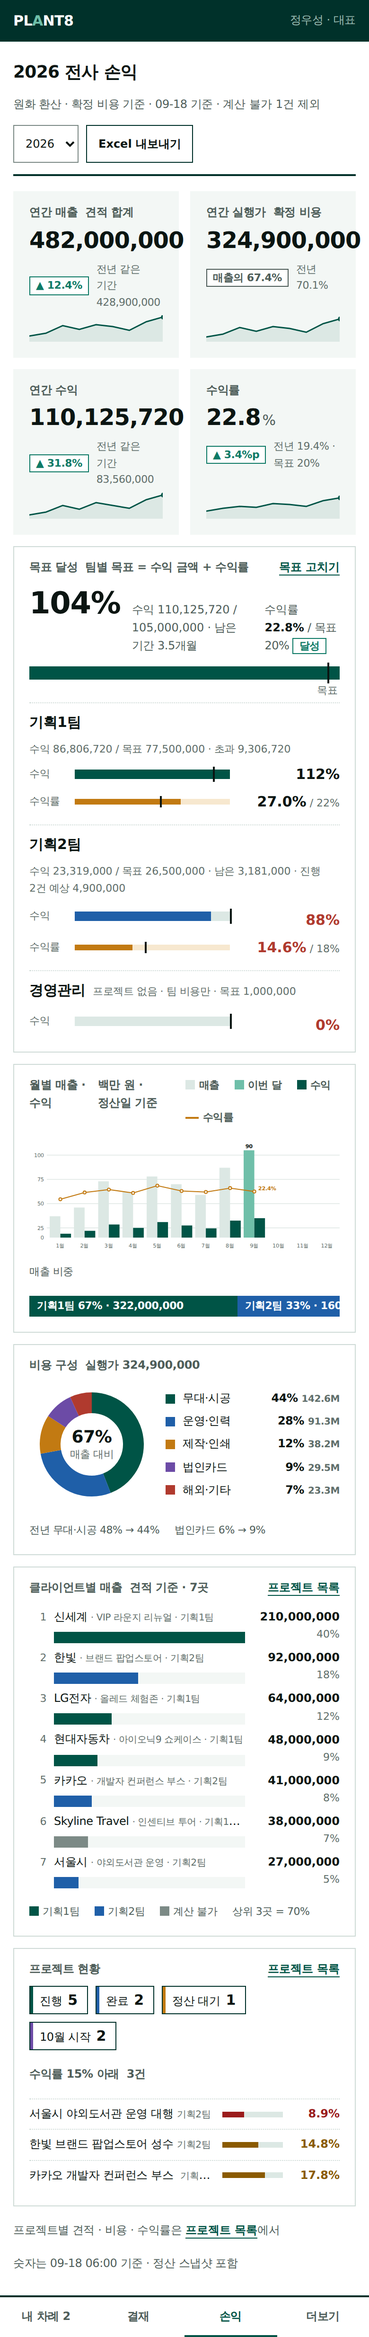
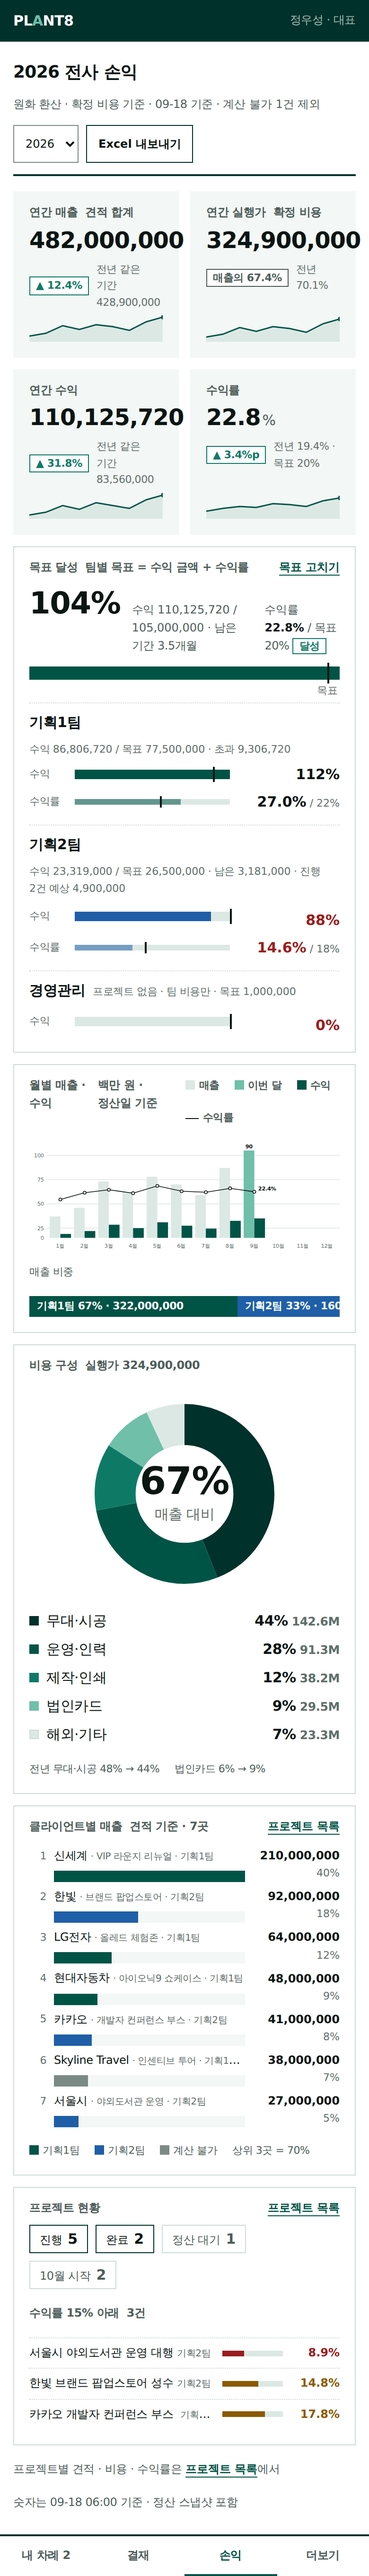
docs: 전사 대시보드 색 정리 — 팀 색 2 + 상태색 2, 도넛은 초록 단계로 키움
사용자 피드백(2026-09-18): 색 배치가 정신없고 도넛이 카드에 비해 작다.
색 하나 = 뜻 하나: 팀 색(그린·파랑)과 경고·위험만 남기고 주황 선·
보라·적갈 칩 제거. 도넛은 220px, 구성 비율은 그린 5단(--seg-1~5).

Claude-Session: https://claude.ai/code/session_01MwoSZSUG1tWADvG16RK3Ss

diff --git a/docs/design/system/dashboard-ceo.html b/docs/design/system/dashboard-ceo.html
@@ -11,12 +11,13 @@
    목표 달성 막대(전사 + 팀별, 목표 눈금) · 월별 매출·수익 막대 + 수익률 선 · 팀별 매출 비중 띠 ·
    클라이언트별 매출 순위(팀 색) · 비용 구성 도넛(추천) · 프로젝트 현황(상태 칩 + 수익률 낮은 프로젝트).
    2026-09-18 사용자: 「다가오는 지급」 「챙길 것」 제외, 클라이언트별 매출 순위 추가, 색 더 다양하게(→ --viz-* 제안).
-   토큰만 쓴다. 제안 토큰: --fs-2xl(32px) · --viz-1~6(데이터 색) — 승인 전이라 이 파일 안에서만 정의.
+   토큰만 쓴다. 제안 토큰: --fs-2xl(32px) · --viz-1/2(팀 색) · --seg-1~5(구성 비율, 그린 단계) — 승인 전이라 이 파일 안에서만 정의.
    장면: #ceo(기본) · #mgmt(경영관리 — 같은 화면, 계급 이름만). 앱 코드가 아니다. */
 :root{--fs-2xl:32px;
-  /* 제안 토큰(승인 전): 데이터 색 6단 — 그린을 1번으로, 나머지는 같은 명도대의 다른 색상. 흰 글자 대비 1·2·4·5 ≥ 4.5, 3·6은 짙은 글자 */
-  --viz-1:var(--g-700);--viz-2:#1F5FA8;--viz-3:#C27A12;--viz-4:#6C4BA6;--viz-5:#B03A2E;--viz-6:var(--g-400);
-  --viz-1-weak:var(--g-100);--viz-2-weak:#DCE7F5;--viz-3-weak:#F7E8CF}
+  /* 제안 토큰(승인 전): 색 하나 = 뜻 하나. 팀 색 2개(기획1팀 = 그린, 기획2팀 = 파랑) + 상태색(--warning·--danger)만.
+     구성 비율(도넛)은 그린 단계 5단. 그 밖의 장식색 없음 */
+  --viz-1:var(--g-700);--viz-2:#1F5FA8;--viz-2-weak:#DCE7F5;
+  --seg-1:var(--g-900);--seg-2:var(--g-700);--seg-3:var(--g-600);--seg-4:var(--g-400);--seg-5:var(--g-100)}
 *{box-sizing:border-box;margin:0;padding:0}
 html{font-size:var(--fs-base)}
 body{background:var(--bg);color:var(--fg);font-family:var(--font-sans);font-size:var(--fs-base);line-height:var(--lh-body);letter-spacing:var(--ls-body);word-break:keep-all;overflow-wrap:anywhere;-webkit-font-smoothing:antialiased}
@@ -86,14 +87,14 @@ main{padding:var(--s-5) var(--pad-page) 72px;max-width:var(--container-max)}
 .teams .r small{font-size:var(--fs-xs);color:var(--faint)}
 .teams .r .track{margin:0;height:10px}
 .teams .r .track i{top:-3px;bottom:-3px}
-.teams .r.rate .track{height:6px;background:var(--viz-3-weak)}
-.teams .r.rate .track b{background:var(--viz-3)}
+.teams .r.rate .track{height:6px}
+.teams .r.rate .track b{opacity:.55}
 .teams .pct{text-align:right;font-weight:var(--fw-bold);white-space:nowrap}
 .teams .pct small{font-weight:var(--fw-regular);color:var(--faint);font-size:var(--fs-xs)}
-.teams .pct.low,.teams .pct.miss{color:var(--viz-5)}
-.teams li.t1 .r:not(.rate) .track b{background:var(--viz-1)}
-.teams li.t2 .r:not(.rate) .track b{background:var(--viz-2)}
-.teams li.t3 .r:not(.rate) .track b{background:var(--viz-4)}
+.teams .pct.low,.teams .pct.miss{color:var(--danger)}
+.teams li.t1 .track b{background:var(--viz-1)}
+.teams li.t2 .track b{background:var(--viz-2)}
+.teams li.t3 .track b{background:var(--line-ui)}
 
 /* 월별 차트 */
 .chart{width:100%;height:auto;display:block;margin-top:var(--s-2)}
@@ -102,14 +103,14 @@ main{padding:var(--s-5) var(--pad-page) 72px;max-width:var(--container-max)}
 .chart .sales{fill:var(--g-100)}
 .chart .profit{fill:var(--g-700)}
 .chart .now .sales{fill:var(--g-400)}
-.chart .rate{fill:none;stroke:var(--viz-3);stroke-width:2}
-.chart .rate-dot{fill:var(--bg);stroke:var(--viz-3);stroke-width:2}
+.chart .rate{fill:none;stroke:var(--fg);stroke-width:1.5}
+.chart .rate-dot{fill:var(--bg);stroke:var(--fg);stroke-width:1.5}
 .chart .lbl{font-size:11px;fill:var(--fg);font-weight:600;font-family:var(--font-sans)}
-.chart .lbl.rate-l{fill:var(--viz-3)}
+.chart .lbl.rate-l{fill:var(--fg)}
 .legend{display:flex;gap:var(--s-4);font-size:var(--fs-xs);color:var(--muted);flex-wrap:wrap}
 .legend i{display:inline-block;width:10px;height:10px;vertical-align:-1px;margin-right:4px}
 .legend .l-sales{background:var(--g-100)}.legend .l-profit{background:var(--g-700)}.legend .l-now{background:var(--g-400)}
-.legend .l-rate{width:14px;height:0;border-top:2px solid var(--viz-3);vertical-align:2px}
+.legend .l-rate{width:14px;height:0;border-top:1.5px solid var(--fg);vertical-align:2px}
 
 /* 비중 띠 */
 .share{display:flex;height:22px;margin-top:var(--s-2)}
@@ -133,10 +134,8 @@ main{padding:var(--s-5) var(--pad-page) 72px;max-width:var(--container-max)}
 
 /* 프로젝트 현황 */
 .status{display:flex;gap:var(--s-2);flex-wrap:wrap}
-.status span{border:var(--line-w) solid var(--line-strong);padding:2px 10px;font-size:var(--fs-sm);display:inline-flex;gap:6px;align-items:baseline;box-shadow:inset 3px 0 0 var(--viz-1)}
-.status span.done{box-shadow:inset 3px 0 0 var(--viz-2)}
-.status span.wait{box-shadow:inset 3px 0 0 var(--viz-3)}
-.status span.next{box-shadow:inset 3px 0 0 var(--viz-4)}
+.status span{border:var(--line-w) solid var(--line-strong);padding:2px 10px;font-size:var(--fs-sm);display:inline-flex;gap:6px;align-items:baseline}
+.status span.wait,.status span.next{border-color:var(--line);color:var(--muted)}
 .status b{font-size:var(--fs-md)}
 .status span.m{border-color:var(--line);color:var(--muted)}
 .low{list-style:none;margin-top:var(--s-2)}
@@ -165,19 +164,19 @@ main{padding:var(--s-5) var(--pad-page) 72px;max-width:var(--container-max)}
 .rank-l{display:flex;gap:var(--s-4);font-size:var(--fs-xs);color:var(--muted);margin-top:auto;padding-top:var(--s-2)}
 .rank-l i{display:inline-block;width:10px;height:10px;vertical-align:-1px;margin-right:4px}
 /* 비용 구성 도넛 */
-.donut{display:grid;grid-template-columns:132px minmax(0,1fr);gap:var(--s-3);align-items:center}
-.donut svg{width:132px;height:132px}
-.donut circle{fill:none;stroke-width:22}
-.donut .c1{stroke:var(--viz-1)}.donut .c2{stroke:var(--viz-2)}.donut .c3{stroke:var(--viz-3)}.donut .c4{stroke:var(--viz-4)}.donut .c5{stroke:var(--viz-5)}
-.donut .ctr{font-size:var(--fs-lg);font-weight:var(--fw-bold);fill:var(--fg);font-family:var(--font-sans)}
-.donut .ctr-l{font-size:11px;fill:var(--faint);font-family:var(--font-sans)}
-.donut ul{list-style:none;display:flex;flex-direction:column;gap:5px;font-size:var(--fs-sm);min-width:0}
+.donut{display:grid;grid-template-columns:minmax(0,1fr);gap:var(--s-3);align-items:center;justify-items:center;flex:1}
+.donut svg{width:min(100%,220px);height:auto;margin-top:var(--s-2)}
+.donut circle{fill:none;stroke-width:26}
+.donut .c1{stroke:var(--seg-1)}.donut .c2{stroke:var(--seg-2)}.donut .c3{stroke:var(--seg-3)}.donut .c4{stroke:var(--seg-4)}.donut .c5{stroke:var(--seg-5)}
+.donut .ctr{font-size:var(--fs-xl);font-weight:var(--fw-bold);fill:var(--fg);font-family:var(--font-sans)}
+.donut .ctr-l{font-size:9px;fill:var(--faint);font-family:var(--font-sans)}
+.donut ul{list-style:none;display:flex;flex-direction:column;gap:6px;font-size:var(--fs-base);min-width:0;width:100%}
 .donut li{display:grid;grid-template-columns:10px auto 1fr;gap:8px;align-items:baseline;white-space:nowrap}
 .donut li .p{text-align:right}
 .donut li i{width:10px;height:10px;display:block;align-self:center}
 .donut li .p{font-weight:var(--fw-bold);font-variant-numeric:tabular-nums}
 .donut li small{color:var(--faint);margin-left:4px}
-.donut .k1{background:var(--viz-1)}.donut .k2{background:var(--viz-2)}.donut .k3{background:var(--viz-3)}.donut .k4{background:var(--viz-4)}.donut .k5{background:var(--viz-5)}
+.donut .k1{background:var(--seg-1)}.donut .k2{background:var(--seg-2)}.donut .k3{background:var(--seg-3)}.donut .k4{background:var(--seg-4)}.donut .k5{background:var(--seg-5);border:1px solid var(--line)}
 
 /* 다가오는 지급 */
 .pay{list-style:none}
@@ -299,13 +298,13 @@ main{padding:var(--s-5) var(--pad-page) 72px;max-width:var(--container-max)}
       <h2>비용 구성 <span class="why">실행가 324,900,000</span></h2>
       <div class="donut">
         <svg viewBox="0 0 132 132" aria-hidden="true">
-          <!-- r=44 · 둘레 276.5 · 44% 28% 12% 9% 7% -->
+          <!-- r=44 · 둘레 276.5 · 44% 28% 12% 9% 7% · 그린 단계 진한 순 -->
           <circle class="c1" cx="66" cy="66" r="44" stroke-dasharray="121.7 276.5" transform="rotate(-90 66 66)"/>
           <circle class="c2" cx="66" cy="66" r="44" stroke-dasharray="77.4 276.5" stroke-dashoffset="-121.7" transform="rotate(-90 66 66)"/>
           <circle class="c3" cx="66" cy="66" r="44" stroke-dasharray="33.2 276.5" stroke-dashoffset="-199.1" transform="rotate(-90 66 66)"/>
           <circle class="c4" cx="66" cy="66" r="44" stroke-dasharray="24.9 276.5" stroke-dashoffset="-232.3" transform="rotate(-90 66 66)"/>
           <circle class="c5" cx="66" cy="66" r="44" stroke-dasharray="19.3 276.5" stroke-dashoffset="-257.2" transform="rotate(-90 66 66)"/>
-          <text class="ctr" x="66" y="64" text-anchor="middle">67%</text><text class="ctr-l" x="66" y="80" text-anchor="middle">매출 대비</text>
+          <text class="ctr" x="66" y="66" text-anchor="middle">67%</text><text class="ctr-l" x="66" y="82" text-anchor="middle">매출 대비</text>
         </svg>
         <ul>
           <li><i class="k1"></i><span>무대·시공</span><span class="p">44%<small>142.6M</small></span></li>
@@ -315,7 +314,7 @@ main{padding:var(--s-5) var(--pad-page) 72px;max-width:var(--container-max)}
           <li><i class="k5"></i><span>해외·기타</span><span class="p">7%<small>23.3M</small></span></li>
         </ul>
       </div>
-      <div class="rank-l" style="margin-top:auto"><span>전년 무대·시공 48% → 44%</span><span>법인카드 6% → 9%</span></div>
+      <div class="rank-l"><span>전년 무대·시공 48% → 44%</span><span>법인카드 6% → 9%</span></div>
     </section>
 
     <!-- 클라이언트별 매출 -->
